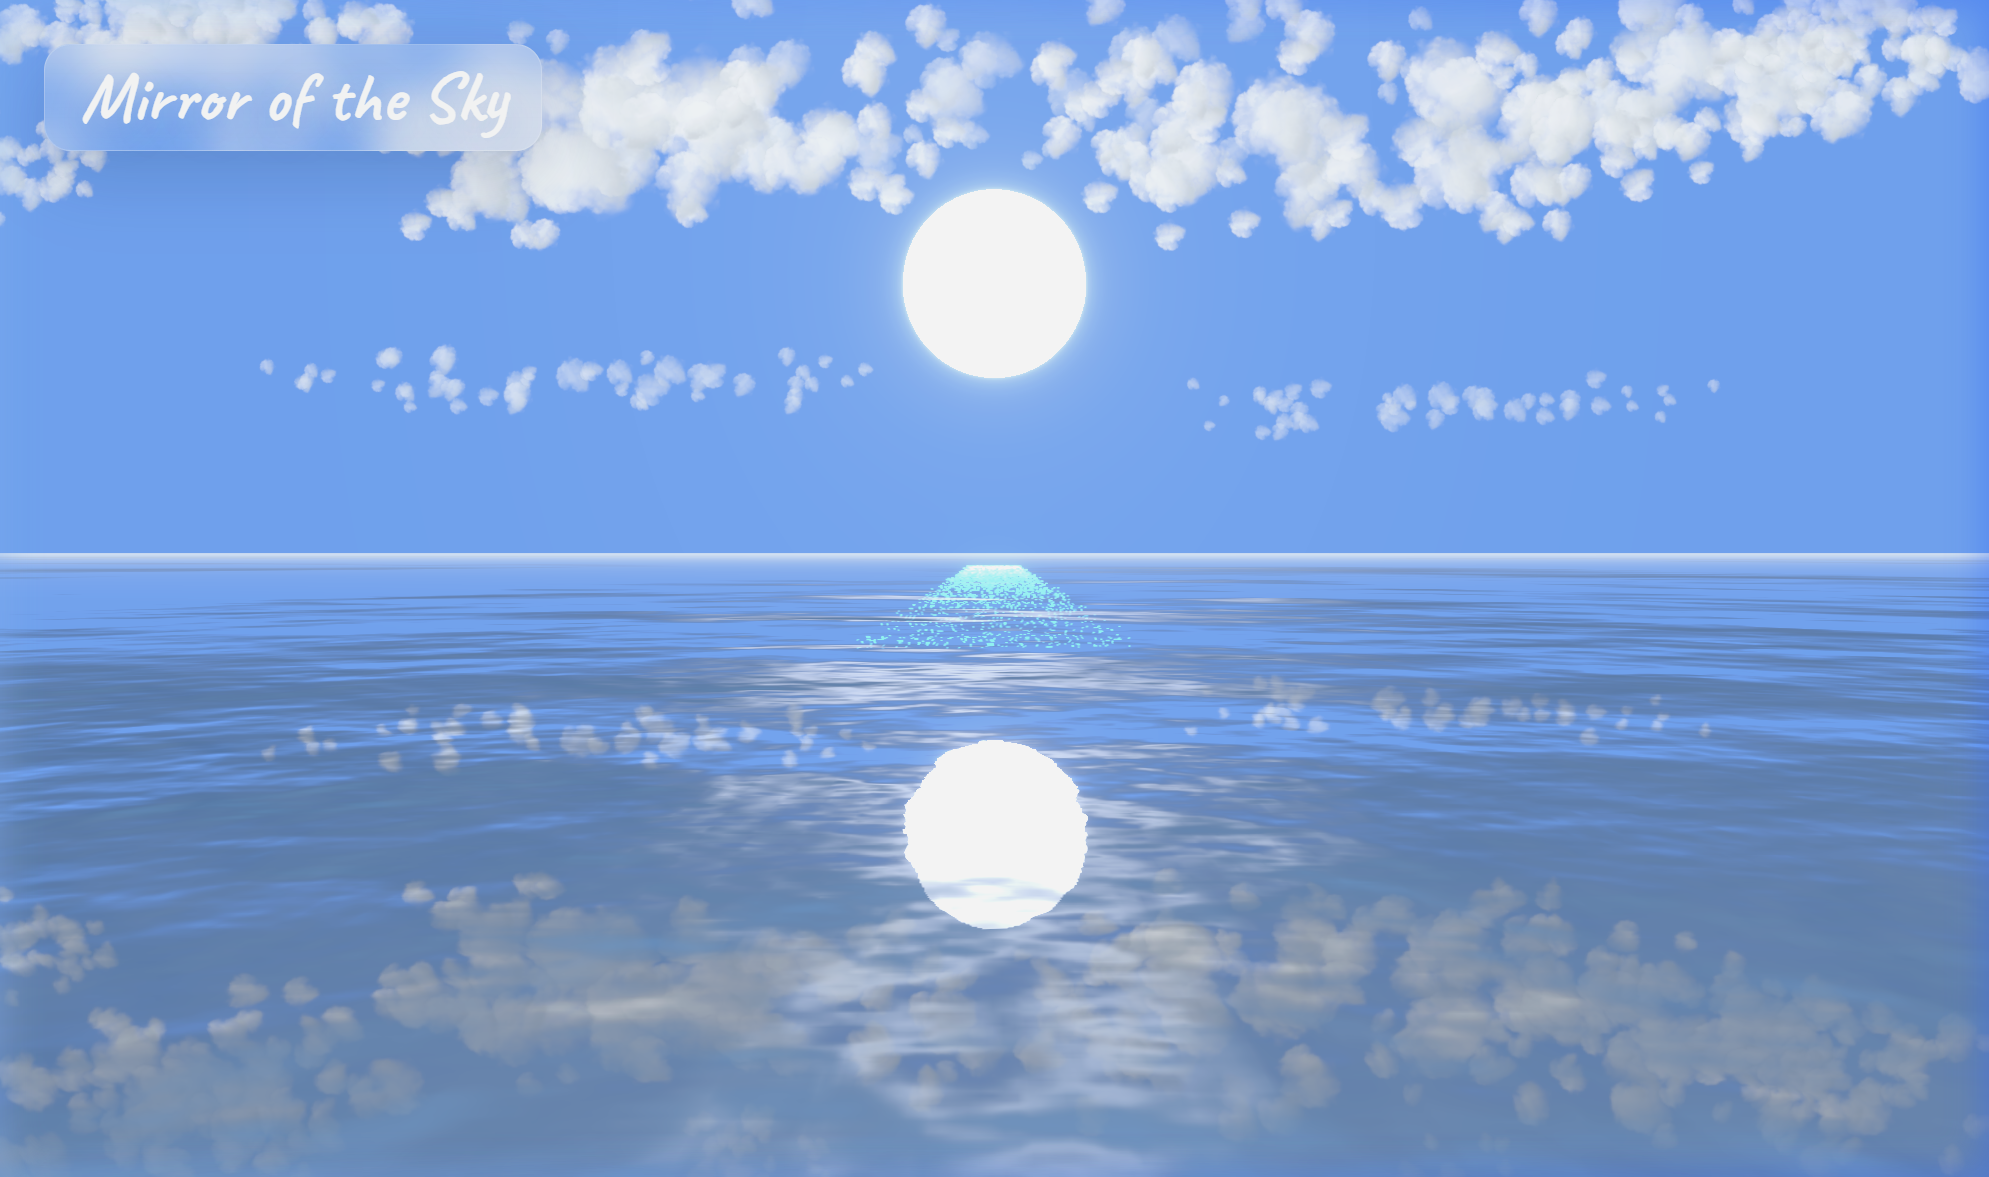
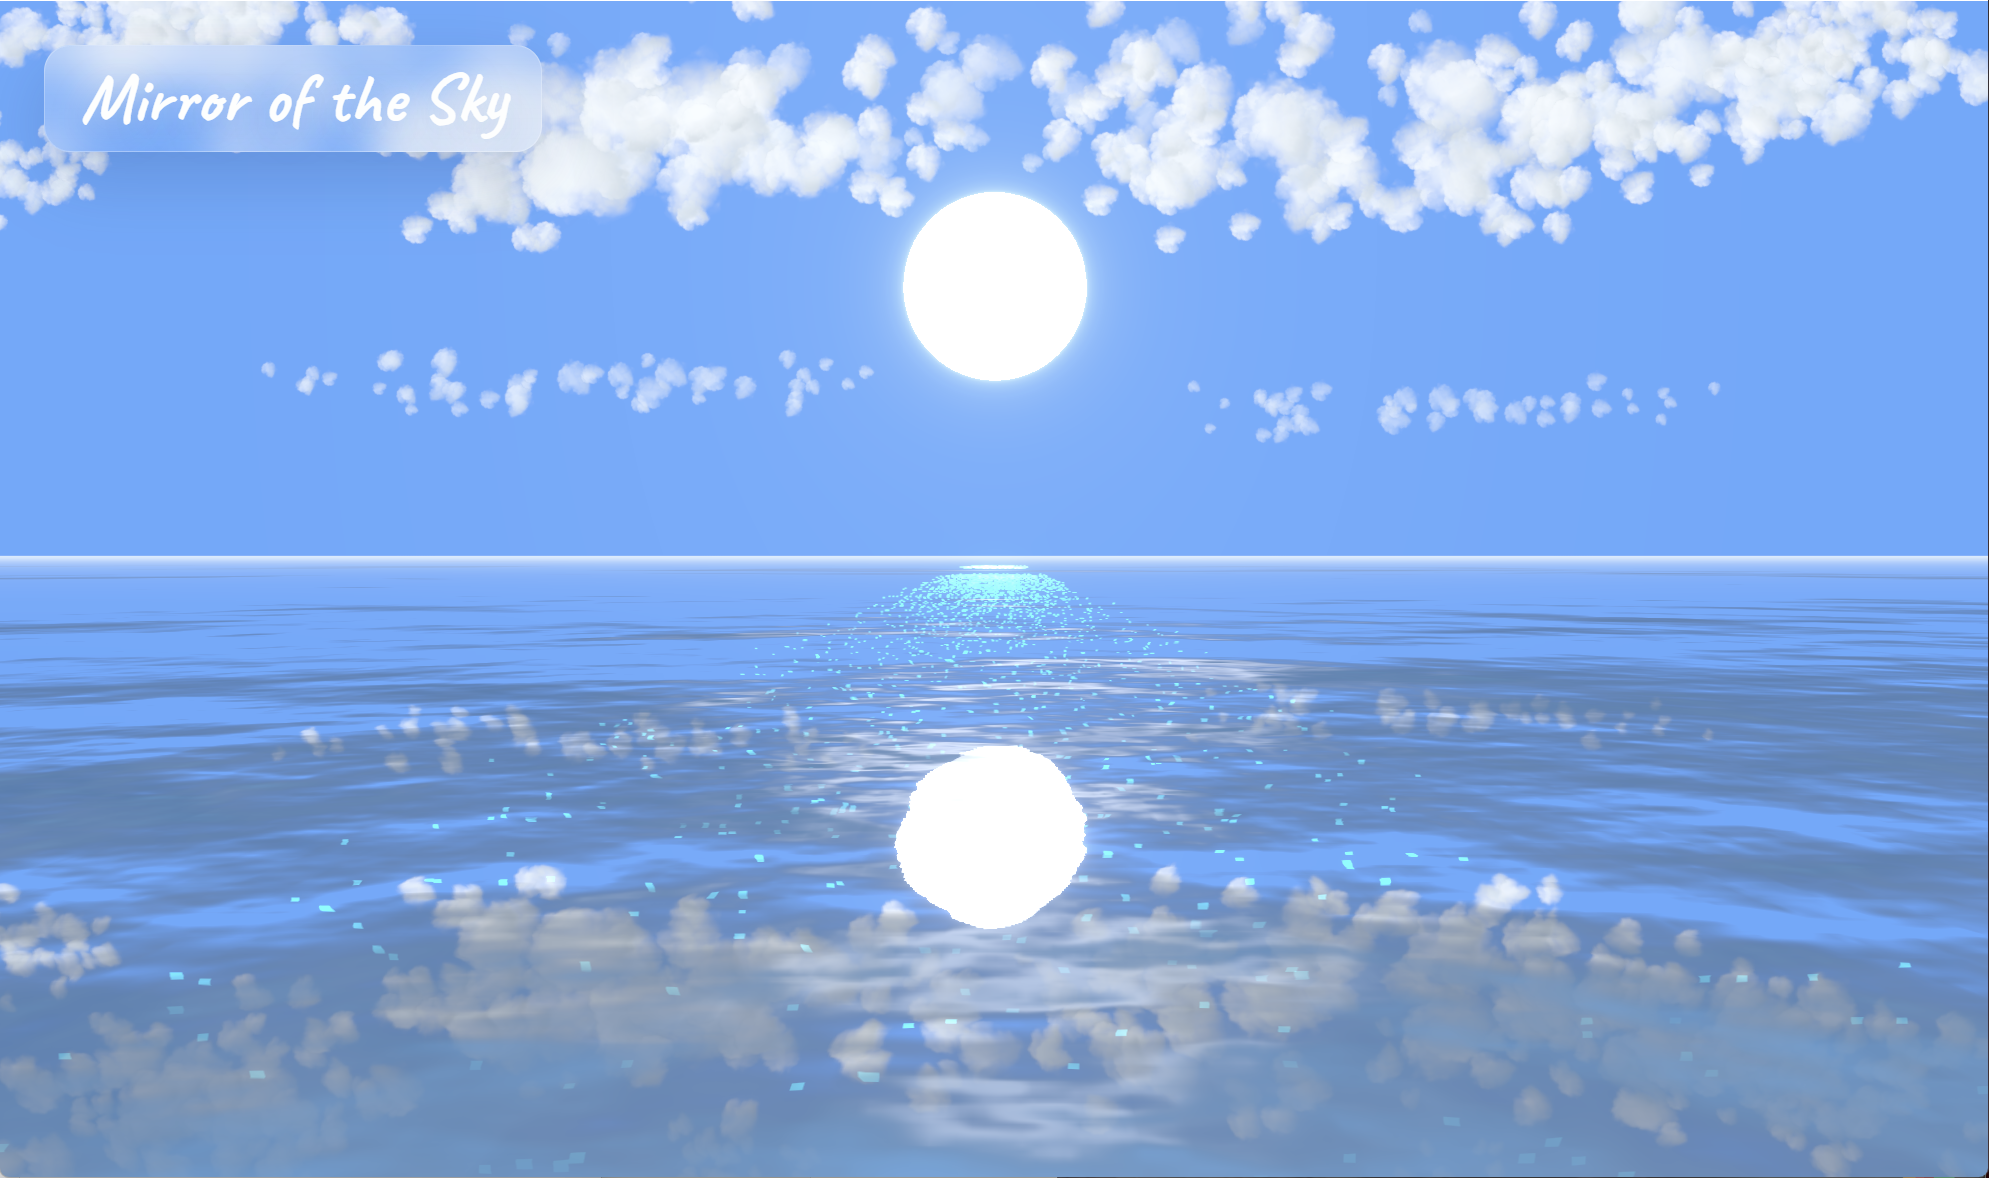
update preview

diff --git a/README.md b/README.md
@@ -11,7 +11,7 @@
 | 特性 | 描述 |
 |------|------|
 | 🌊 **镜面水体** | 基于 Three.js Water 组件，结合法线贴图与精调参数，呈现极致平滑的镜面反射效果 |
-| ☀ **风格化太阳** | 放弃物理天空渲染，使用发光球体 + Bloom 后处理，打造梦幻柔和的太阳光晕 |
+| ☀ **风格化太阳** | 使用发光球体 + Bloom 后处理，打造梦幻柔和的太阳光晕 |
 | ☁ **体积云层** | 采用 `@react-three/drei` 的 Cloud 组件，MeshBasicMaterial 渲染出手绘般纯白通透的云朵 |
 | ✨ **氛围粒子** | 3000 颗 Additive Blending 发光粒子沿水面飘移，营造星尘光流的空灵感 |
 | 🎥 **呼吸镜头** | CameraRig 跟随鼠标 lerp 平滑漫游，叠加微幅正弦呼吸动画，让画面始终"活着" |
@@ -63,9 +63,7 @@ Mirror of the Sky/
 
 ## 🎨 设计思路
 
-### 为什么不用物理天空？
-
-Three.js 内置的 `Sky` 着色器虽然真实，但在低角度场景中容易显得灰暗、过曝且难以控制色调。本项目选择了**全风格化路线**：
+本项目选择了**全风格化路线**：
 
 1. **纯色宝石蓝背景** (`#64aaff`) 作为天空底色，确保全时段都呈现清澈的蓝。
 2. **发光球取代物理 Sun**，配合 `@react-three/postprocessing` 的 Bloom 效果，让太阳边缘泛化成柔和的光晕。
